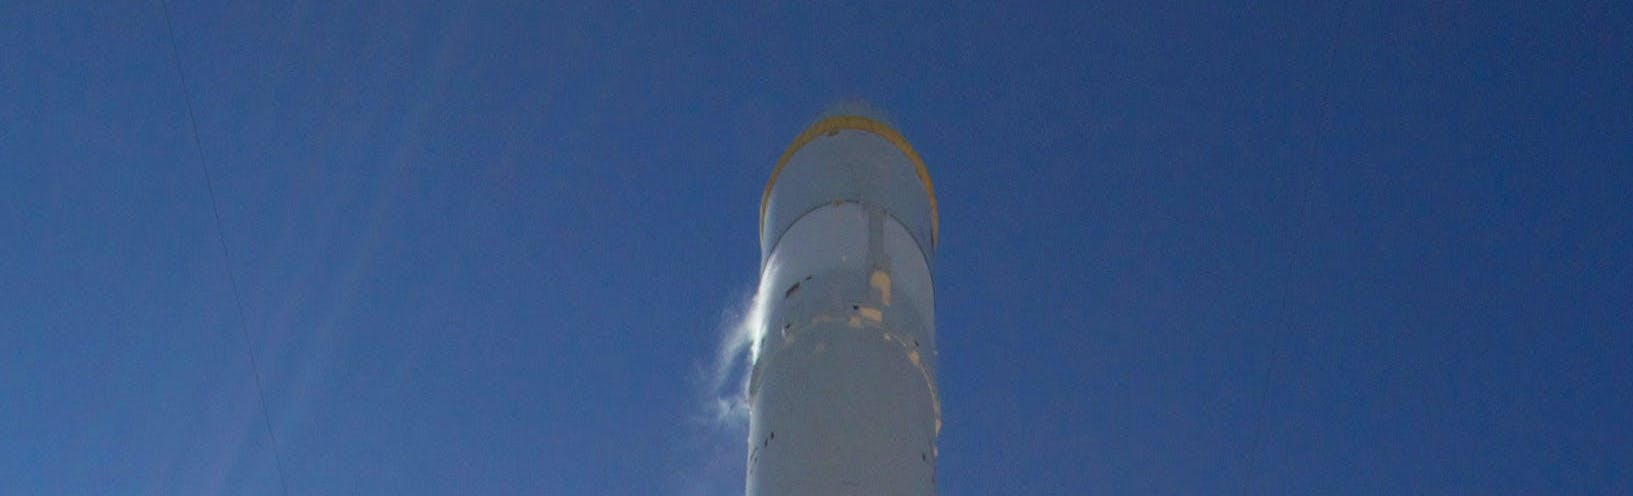
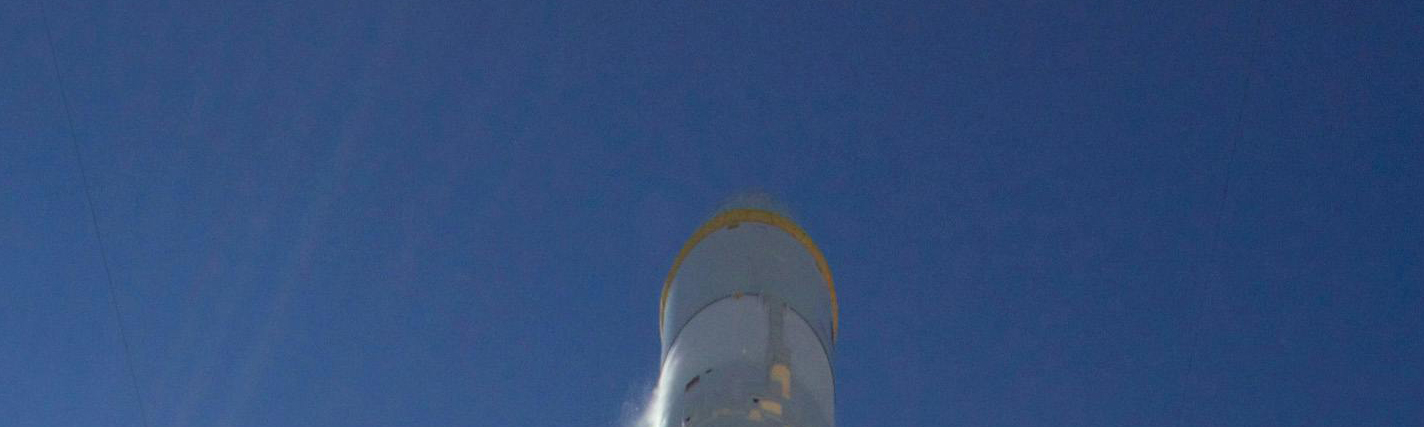
Added Profile section
Modified HTML and CSS to include new Profile section.
Rocket image re-sliced into six sections (replacing previous five sections)

Changed region(s): [[0.4017, 0.2131, 0.5871, 1.0]]

diff --git a/index.html b/index.html
@@ -27,15 +27,17 @@
           </div>
           <ul class="mainMenu">
             <li><a href="#parallax1">Overview</a></li>
-            <li><a href="#parallax2">Studies</a></li>
-            <li><a href="#parallax3">Employment</a></li>
-            <li><a href="#parallax4">Projects</a></li>
-            <li><a href="#parallax5">Contact</a></li>
+            <li><a href="#parallax2">Profile</a></li>
+            <li><a href="#parallax3">Studies</a></li>
+            <li><a href="#parallax4">Employment</a></li>
+            <li><a href="#parallax5">Projects</a></li>
+            <li><a href="#parallax6">Contact</a></li>
             <li class="dropMenuTrigger">Links
               <ul class="dropMenu">
                 <li><a href="/Site1/index.html" target="_blank">Toy Shop</a></li>
                 <li><a href="/Site2/index.html" target="_blank">Furniture Store</a></li>
                 <li><a href="http://www.captainsteveperth.com" target="_blank">CaptainSteve</a></li>
+                <!-- <li><a href="https://steveschrader.net/captainsteve" target="_blank">CaptainSteve</a></li> -->
                 <li><a href="#" target="_blank">Hangman</a></li>
                 <li><a href="#" target="_blank">Shopping List</a></li>
               </ul>
@@ -50,10 +52,11 @@
             <div id="hamburgerIcon"></div>
             <ul class="mainMenu">
               <li><a href="#parallax1">Overview</a></li>
-              <li><a href="#parallax2">Studies</a></li>
-              <li><a href="#parallax3">Employment</a></li>
-              <li><a href="#parallax4">Projects</a></li>
-              <li><a href="#parallax5">Contact</a></li>
+              <li><a href="#parallax2">Profile</a></li>
+              <li><a href="#parallax3">Studies</a></li>
+              <li><a href="#parallax4">Employment</a></li>
+              <li><a href="#parallax5">Projects</a></li>
+              <li><a href="#parallax6">Contact</a></li>
               <li><hr></li>
               <li class="dropMenuTrigger">Links
                 <ul class="dropMenu">
@@ -90,6 +93,20 @@
       </div>
       <div class="text_block" id="block1">
         <p>
+          This web-site was originally intended to serve merely as a launching platform for projects
+          and assessments worked-on during my studies. However, I soon realized that I also needed
+          some form of portfolio through which I could showcase my work and projects to potential
+          employers and clients. And so I looked to re-design my site. I re-built it from the ground
+          up, planning to let it grow and evolve as I learned new skills.
+        </p>
+        <p>3 ... 2 ... 1 ...</p>
+        <p>Let's go !!</p>
+      </div>
+      <div class="parallax" id="parallax2">
+        <span class="title">Profile</span>
+      </div>
+      <div class="text_block" id="block2">
+        <p>
           Hello and welcome to my online portfolio, where innovation meets know-how in the world of
           programming and web-development. I am excited to present a showcase of my skills and
           projects, developed over the past few years after making the life-altering decision to
@@ -112,26 +129,17 @@
           <br>Personally, I think my role was mere circumstance.
         </p>
         <p>
-          This web-site was originally intended to serve merely as a launching platform for projects
-          and assessments worked-on during my studies. However, I soon realized that I also needed
-          some form of portfolio through which I could showcase my work and projects to potential
-          employers and clients. And so I looked to re-design my site. I re-built it from the ground
-          up, planning to let it grow and evolve as I learned new skills.
-        </p>
-        <p>
           Throughout my journey, I have worked to hone my proficiency in various programming
           languages, frameworks and development tools. From crafting dynamic and responsive websites
           to developing robust database solutions and mobile applications, I trust that my portfolio
           reflects my adaptability and commitment to working on a diverse range of projects with your
           organization.
         </p>
-        <p>3 ... 2 ... 1 ...</p>
-        <p>Let's go !!</p>
       </div>
-      <div class="parallax" id="parallax2">
+      <div class="parallax" id="parallax3">
         <span class="title">Studies</span>
       </div>
-      <div class="text_block" id="block2">
+      <div class="text_block" id="block3">
         <p>
           Prior to this recent journey, I had twice attempted similar programming courses on a
           part-time basis. However for me - with a full-time job and attending evening classes, as
@@ -223,10 +231,10 @@
           intention to enrol in the Diploma of Web Development in 2024.
         </p>
       </div>
-      <div class="parallax" id="parallax3">
+      <div class="parallax" id="parallax4">
         <span class="title">Employment</span>
       </div>
-      <!-- <div class="text_block" id="block3">
+      <!-- <div class="text_block" id="block4">
         <p>
           I am looking to launch my IT career in Programming and/or Web-Development ...
         </p>
@@ -380,10 +388,10 @@
           </a>
         </span>
       </div> -->
-      <div class="parallax" id="parallax4">
+      <div class="parallax" id="parallax5">
         <span class="title">Projects</span>
       </div>
-      <!-- <div class="text_block" id="block4">
+      <!-- <div class="text_block" id="block5">
         <p>
           To assess our progress over the course of my studies, many programming assignments were set.
           I've jotted down a few of my personal favourites on this Post-It<span id="copyright">
@@ -478,11 +486,11 @@
             <img src="images/video2.png" width="1061" height="831" alt="Screenshot of Video Player assessment">
             <img
               src="images/video_code1.png"
-              width="1042" height="854" 
+              width="1042" height="854"
               alt="Code screenshot from Anagrams assessment">
             <img
               src="images/video_code2.png"
-              width="1042" height="854" 
+              width="1042" height="854"
               alt="Code screenshot from Anagrams assessment">
             <p>
               My Video Player app was built as an assessment for the Advanced Python programming class
@@ -514,10 +522,10 @@
           </li>
         </ul>
       </div> -->
-      <div class="parallax" id="parallax5">
+      <div class="parallax" id="parallax6">
         <h1 class="title">Contact</h1>
       </div>
-      <div class="text_block" id="block5">
+      <div class="text_block" id="block6">
         <p>
           Thank you for taking the time to read a little about me.
         </p>
@@ -561,6 +569,7 @@
           </form>
         </div>
       </div>
+      <!-- Inset SVG signature here -->
     </main>
     <footer>
       <h3></h3>

diff --git a/css/style.css b/css/style.css
@@ -278,7 +278,7 @@ nav {
 }
 
 .parallax .title {
-  font-family: "Times New Roman", Times, serif;
+  font-family: "Tektur", sans-serif;
   font-size: var(--parallaxFontSize);
   font-weight: bold;
   color: var(--titleColour);
@@ -309,7 +309,11 @@ nav {
   background-image: url("../images/rocket5.jpg");
 }
 
-#parallax5 .title {
+#parallax6 {
+  background-image: url("../images/rocket6.jpg");
+}
+
+#parallax6 .title {
   color: #e68a00;
   text-shadow: -4px 4px gray, -3px -3px 25px yellow, -1px -1px 5px darkblue;
 }
@@ -329,18 +333,18 @@ nav {
 
 /* !! All section animations to be wrapped with "prefers-reduced-motion" @media-query */
 /* || Studies */
-#block2 {
+#block3 {
   display: grid;
   grid-template-rows: 2fr 7fr 4fr;
   grid-template-columns: 1fr;
 }
 
-#block2 p:nth-of-type(1) {
+#block3 p:nth-of-type(1) {
   grid-row: 1 / 1;
   grid-column: 1 / -1;
 }
 
-#block2 ul {
+#block3 ul {
   grid-row: 2 / 2;
   grid-column: 1 / -1;
   opacity: 0.7;
@@ -351,22 +355,22 @@ nav {
   list-style-type: none;
 }
 
-#block2 ul li:nth-of-type(1) {
+#block3 ul li:nth-of-type(1) {
   grid-row: 1 / -1;
   grid-column: 1 / 1;
 }
 
-#block2 ul li:nth-of-type(2) {
+#block3 ul li:nth-of-type(2) {
   grid-row: 1 / -1;
   grid-column: 2 / 2;
 }
 
-#block2 ul li:nth-of-type(3) {
+#block3 ul li:nth-of-type(3) {
   grid-row: 1 / -1;
   grid-column: 3 / 3;
 }
 
-#block2 p:nth-of-type(2) {
+#block3 p:nth-of-type(2) {
   grid-row: 3 / 3;
   grid-column: 1 / -1;
 }
@@ -452,7 +456,7 @@ nav {
 }
 
 /* || Employment */
-#block3 {
+#block4 {
   /* display: grid; */
   /* grid-template-rows: 2fr 7fr 4fr;
   grid-template-columns: 1fr; */
@@ -549,14 +553,14 @@ nav {
 }
 
 /* || Projects */
-/* #block4 {
+/* #block5 {
   display: grid;
   grid-template-rows: 2fr 8fr;
   grid-template-columns: 2fr 3fr;
   color: var(--textColour);
 }
 
-#block4 ~ p {
+#block5 ~ p {
   grid-row: 1 / 1;
   grid-column: 1 / 1;
 }
